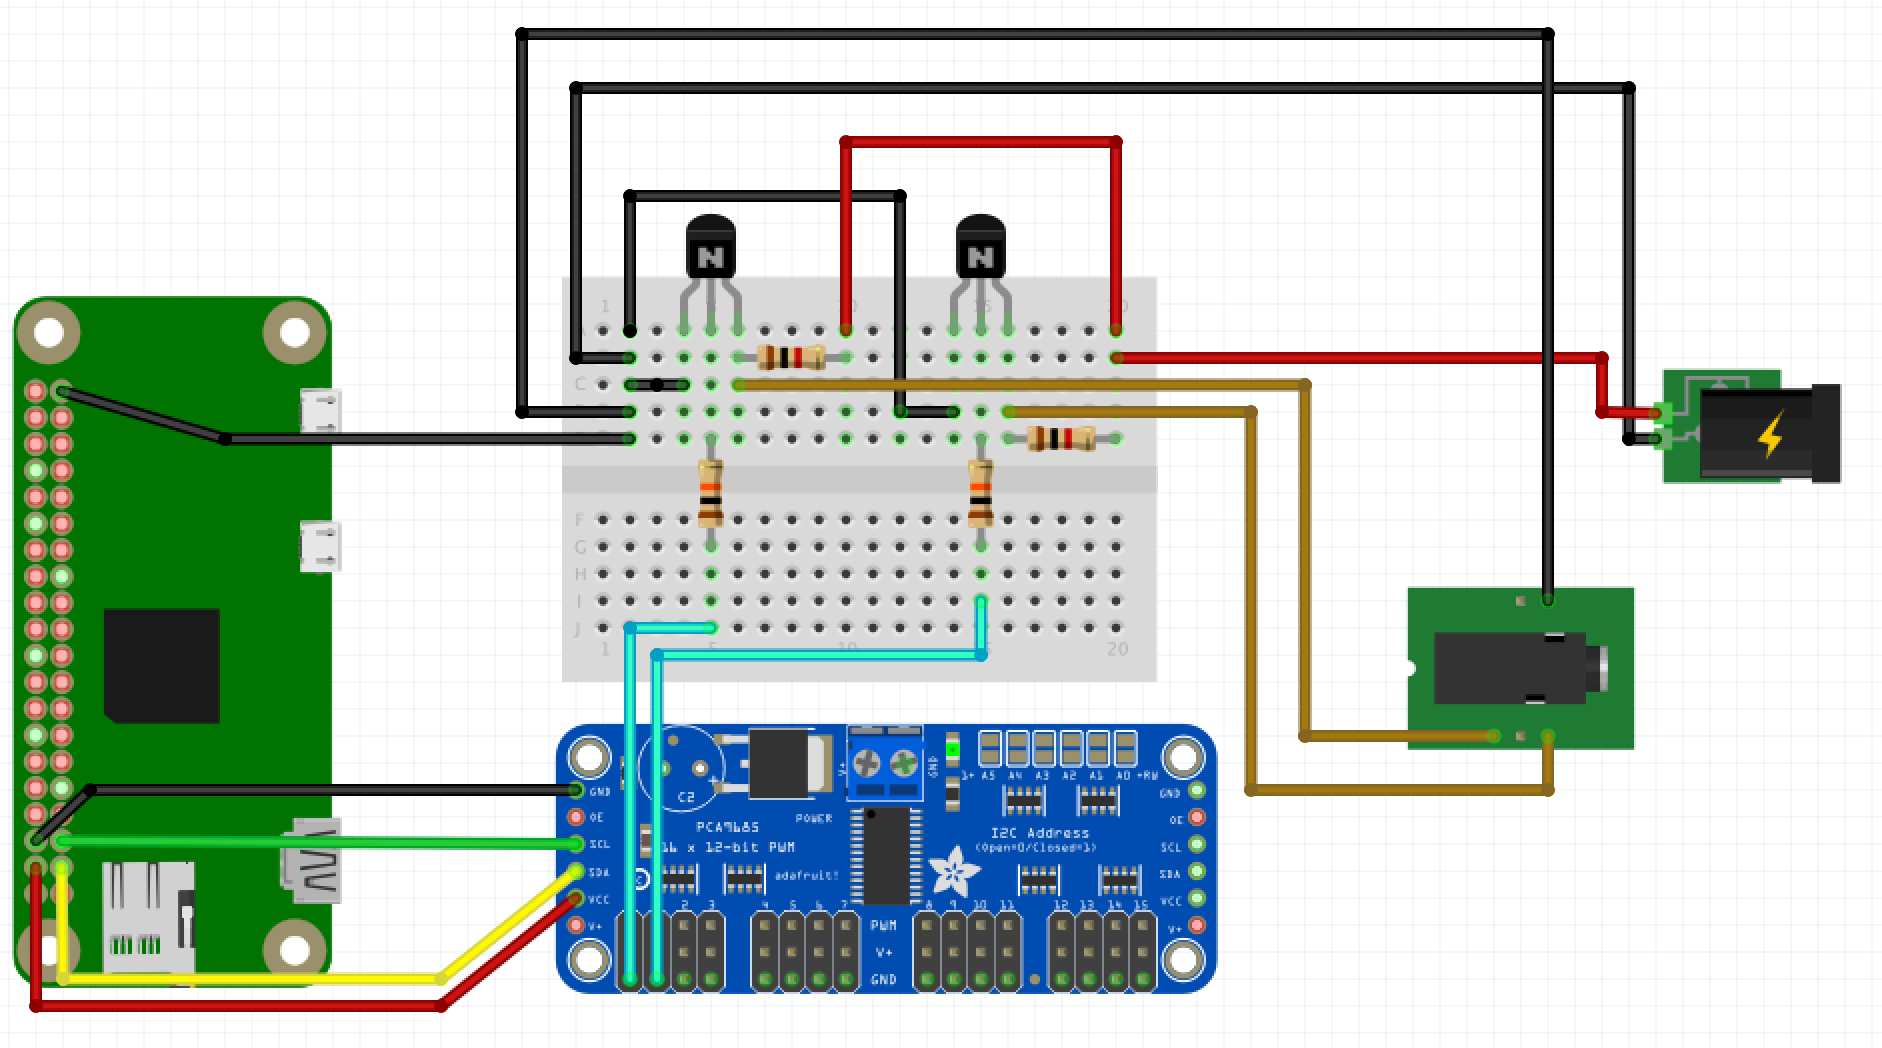
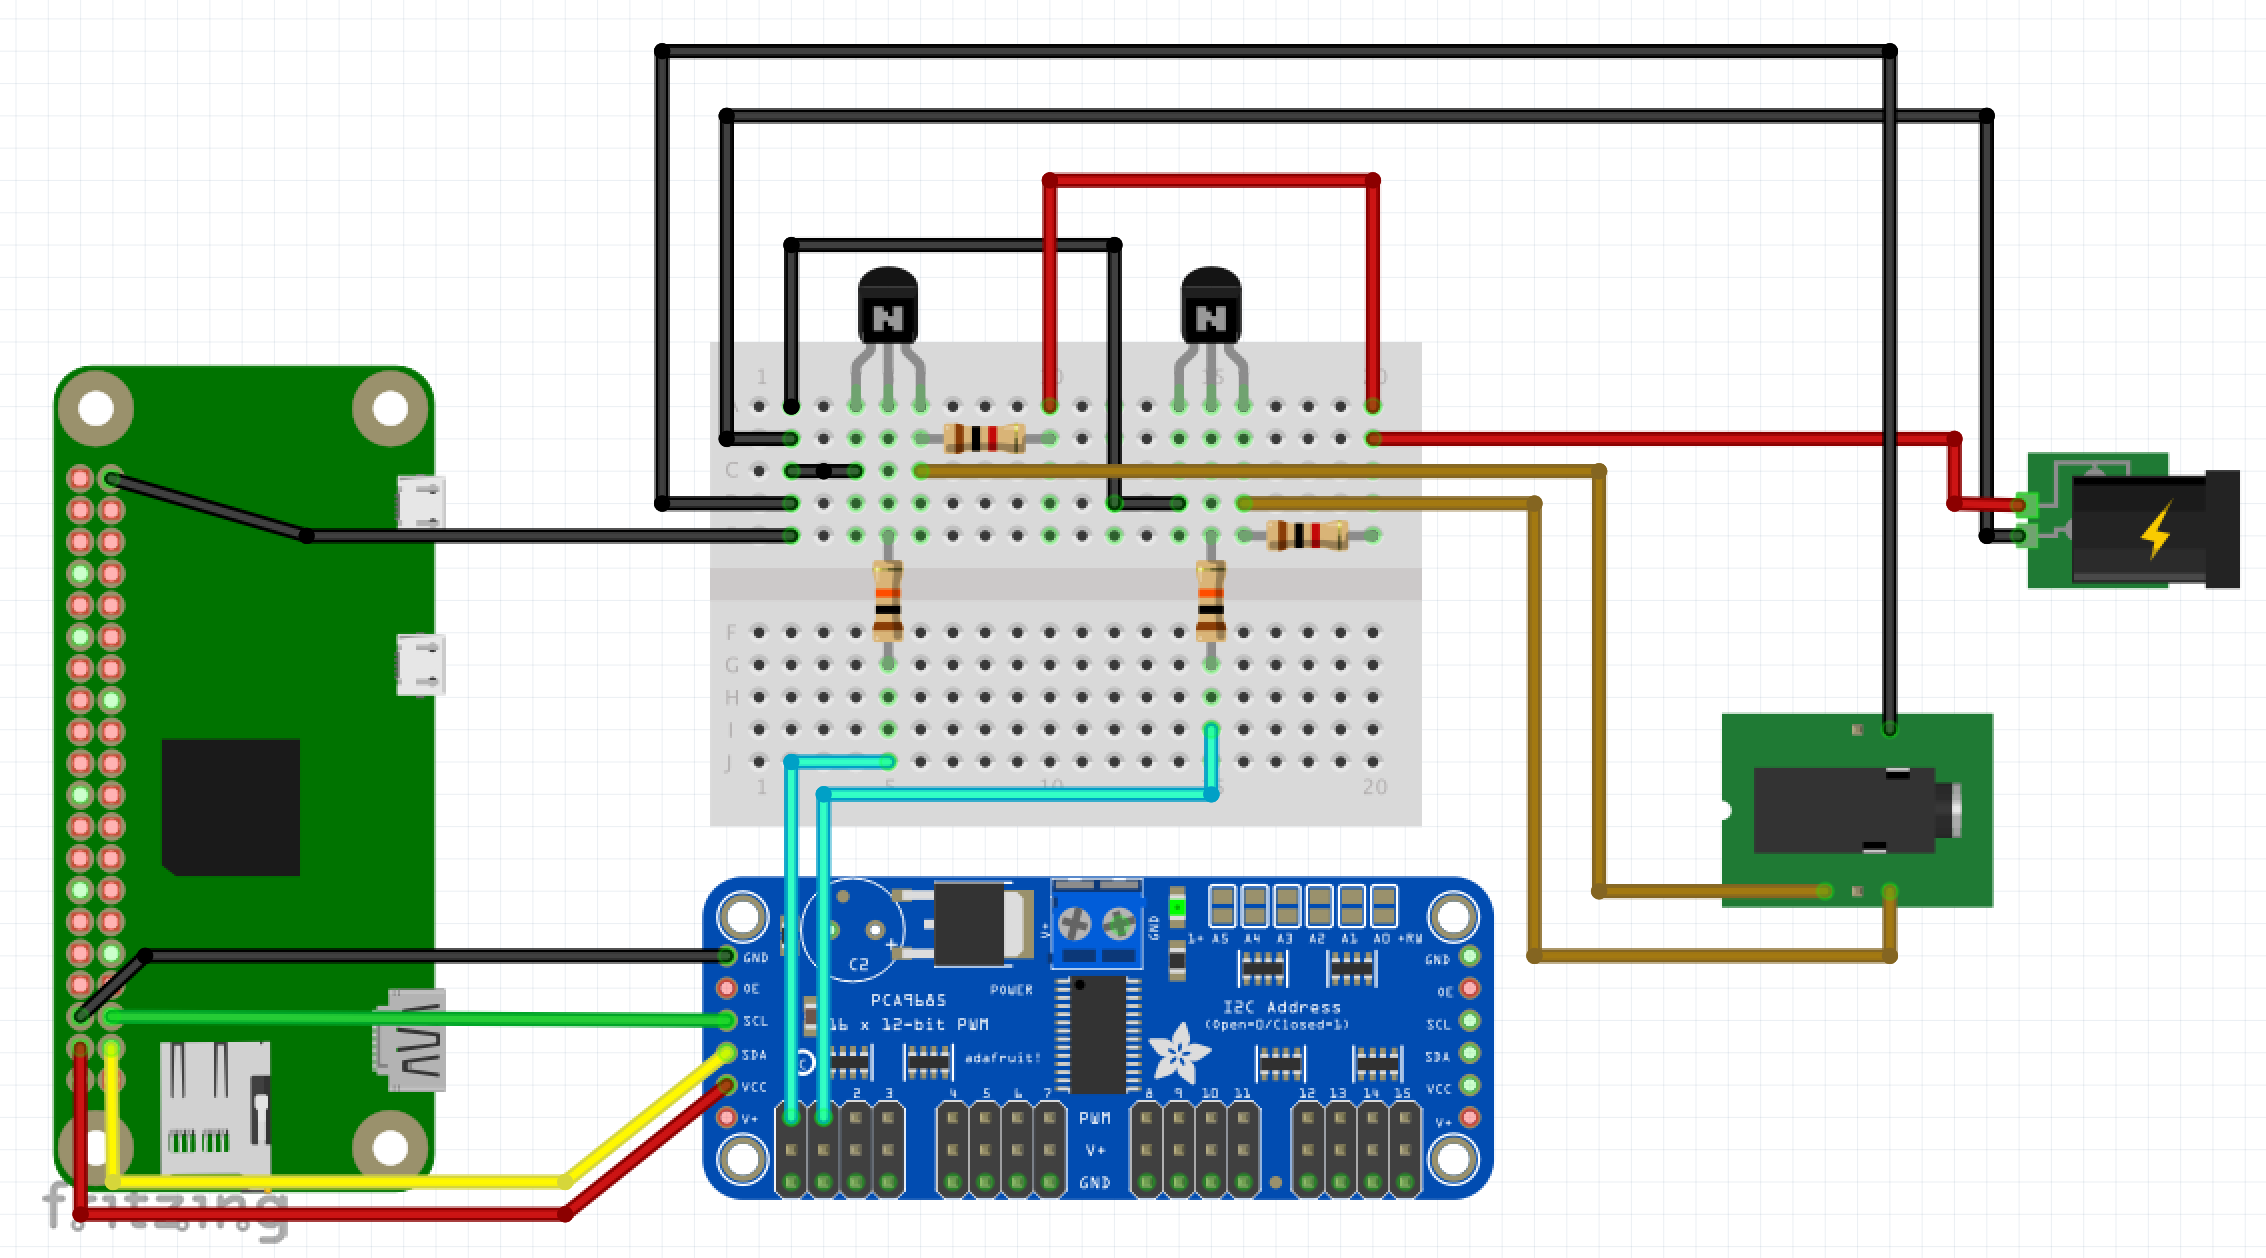
fix pin connection in lighting breadboard circuit

Changed region(s): [[0.0, 0.0, 1.0, 0.9771]]

diff --git a/content/build-guides/ato.md b/content/build-guides/ato.md
@@ -1,6 +1,6 @@
 ---
 linktitle: ato
-title: Auto Top Off (ATO)
+title: Auto Top Off
 highlight: true
 weight: 2
 keywords:
@@ -9,25 +9,45 @@ keywords:
 - controller
 - raspberry pi
 - iot
+- ato
+- auto top off
+- auto top up
+- coral
 ---
 
-### Things you need
+Atutomatic top off units are systems that maintains a constant water volume inside a reef tank. Reef tanks undergoes water evaporation which results in loss of water volume, which in turn increases the salinity of remaining water. Corals are highly sensitive to salinity thus unless the evaporated water is supplemented with fresh RO/DI water it will have a detrimental effect to corals. Auto top off units monitors water level periodically and when it falls below a certain level, they switch on an ATO pump to replenish the lost water volume with fresh RO/DI water, till it reaches the expected volume. The degree of water evaporation is dependent on several factors like ambient temperature,  whether the tank has open top of closed lid, if fan is used to cool down tanks etc. The effect of water loss due to evaporation is dependant on tank size. Our communal understanding is smaller tanks such as nano and pico reefs,  require ATO more than bigger tanks. A stable water height is also important for optimal skimmers performance.
 
-- Raspberry Pi. Both Pi zero or Pi 3 will work
-- Single channel relay
+This build guide will cover how to build an inexpensive yet effective auto top off unit using reef-pi.
+
+### How it works ?
+
+### Things to consider
+
+- photo electric sensor or float switch
+
+- ATO pump
+
+
+### Bill of materials
+
+- [Pi zero](https://www.adafruit.com/product/3400) or [Pi 3](https://www.adafruit.com/product/3055)
+- [micro sd card](https://www.adafruit.com/product/2693)
+- 5v 2.4 amp [power adapter](https://www.adafruit.com/product/1995) for Raspberry Pi
+- Relay, with at least 1 channel [example](https://www.amazon.com/dp/B00E0NTPP4)
 - Photo electric water level sensor
-- 3.5mm female, panel mount audio jack
-- Jumper wires
-- 3.5mm Right angle, bare wire male audio connector
-- 5 volt 2.5 amp micro usb power supply  for raspberry pi
 - Submercible water pump
-- Unviersal powe chord
-- Power socket with fuse
-- AC receptacles
+- AC receptacles [example](https://www.amazon.com/gp/product/B002DQT5UK/)
+- [3.5mm female, panel mount audio jack](https://www.amazon.com/dp/B013AP77T8)
+- [3.5mm male audio jack](https://www.amazon.com/dp/B00MFRZ2SG/)
+- [Jumper wires](https://www.amazon.com/dp/B00DJY4RS0)
 
 ### Wiring
 
-### Configuring reef-pi
+![breadboard](/img/ato/breadboard.png)
 
-- Enable and configure ATO  in reef-pi configuration file
-- Restart reef-pi
+### Installation & Configuration
+
+- Follow reef-pi installation [guide](../../general-guides/install) to setup reef-pi on Raspberry Pi zero.
+
+
+### Resources

diff --git a/content/build-guides/temperature.md b/content/build-guides/temperature.md
@@ -2,7 +2,7 @@
 author: "Ranjib Dey"
 date: 2017-09-27
 linktitle: temperature
-title: How to build a temperature controller
+title: Temperature controller
 highlight: true
 weight: 4
 keywords:
@@ -12,11 +12,14 @@ keywords:
 - raspberry pi
 - coral
 - temperature controller
+- iot
 ---
 
 Maintain stable temperature is a key requirement for a thriving reef tank. Most reef tanks maintain a stable temperature within 77 to 80 degree fahrenheit for optimal coral growth. Depending upon the environment where reef tank is located this might require cooling down the tank using a chiller or heating it up with a heater. Because environmental temperature varies during day and night at most places, reef tank temperature is often monitored and controlled automatically using a controller. Heaters are also most frequently failed equipments in reef tank, leading to tank crash. Temperature controllers are helps in avoiding such catastrophic situation as well.
 
 In this guide we'll be using reef-pi to build a temperature controller that will monitor the temperature of reef tank and turn on heater or cooler when the temperature goes above or below a specified range.
+
+### How it works ?
 
 ### Things to consider
 
@@ -32,7 +35,7 @@ In this guide we'll be using reef-pi to build a temperature controller that will
 - [micro sd card](https://www.adafruit.com/product/2693)
 - 5v 2.4 amp [power adapter](https://www.adafruit.com/product/1995) for Raspberry Pi
 - [DS18B20 temperature probe](https://www.amazon.com/dp/B01B27R21Y/)
-- SSD relay, with at least 2 channels [example](https://www.amazon.com/dp/B00E0NTPP4)
+- Relay, with at least 2 channels [example](https://www.amazon.com/dp/B00E0NTPP4)
 - AC receptacles [example](https://www.amazon.com/gp/product/B002DQT5UK/)
 - [3.5mm female, panel mount audio jack](https://www.amazon.com/dp/B013AP77T8)
 - [3.5mm male audio jack](https://www.amazon.com/dp/B00MFRZ2SG/)
